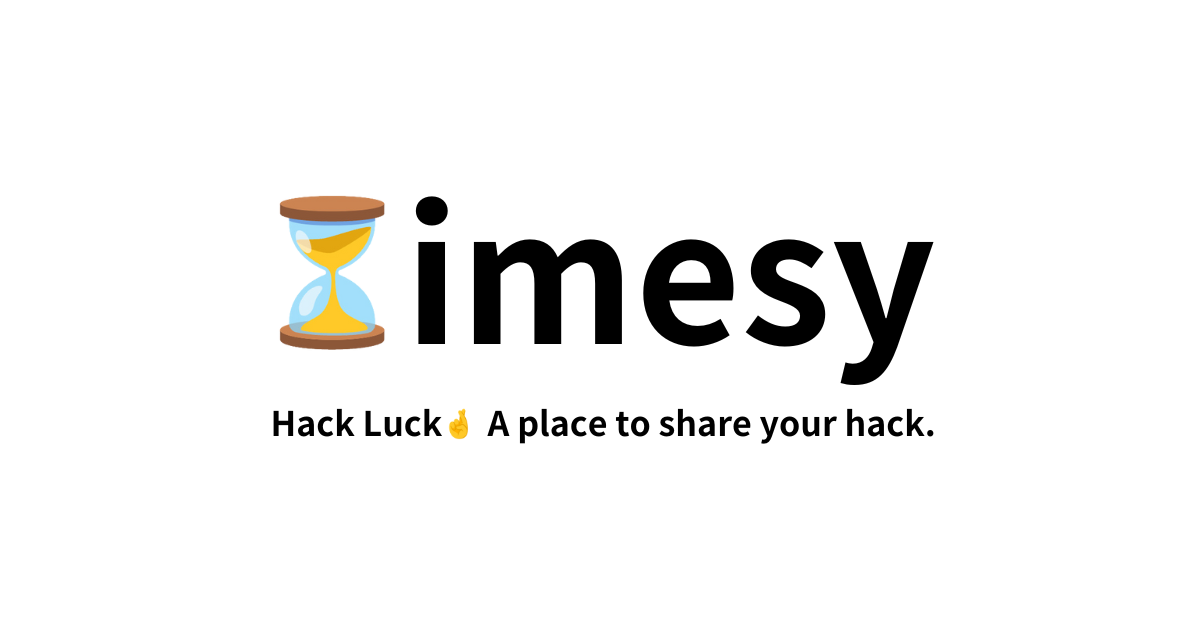
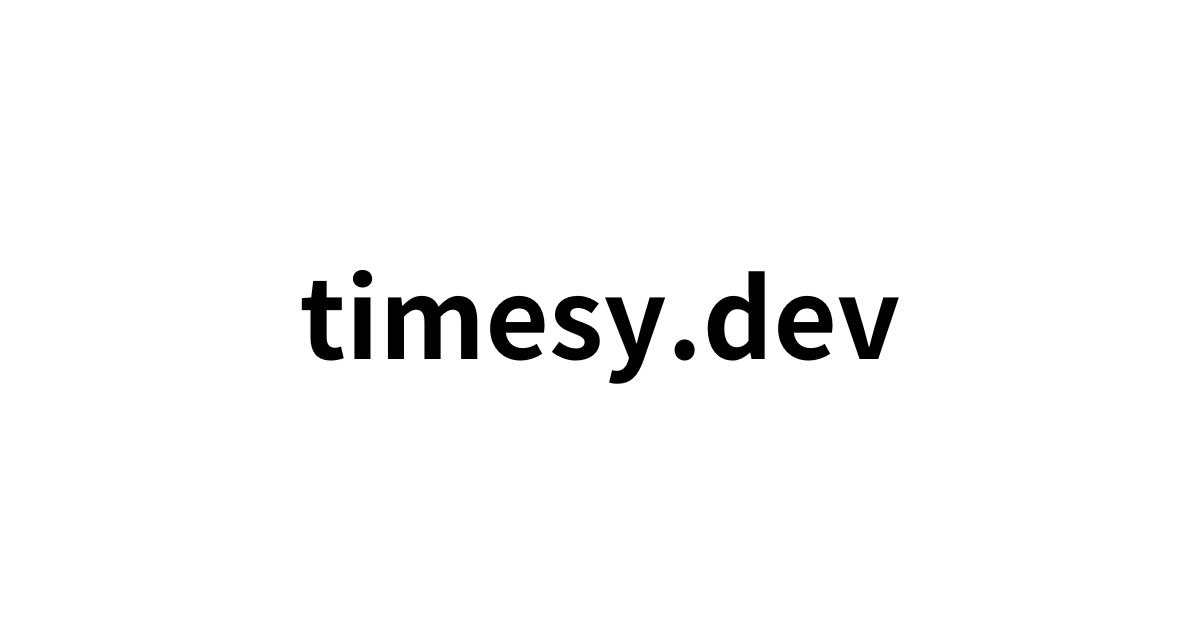
Tweak design

Changed region(s): [[0.2158, 0.3016, 0.8017, 0.6333], [0.2158, 0.6333, 0.7708, 0.6937]]

diff --git a/app/models/site.rb b/app/models/site.rb
@@ -8,7 +8,7 @@ class Site
   end
 
   def self.title
-    "Timesy"
+    "timesy.dev"
   end
 
   def self.description
@@ -20,6 +20,6 @@ class Site
   end
 
   def self.sender_email
-    ENV.fetch("SITE_SENDER_EMAIL", "Timesy <noreply@timesy.dev>")
+    ENV.fetch("SITE_SENDER_EMAIL", "timesy.dev <noreply@timesy.dev>")
   end
 end

diff --git a/config/initializers/passwordless.rb b/config/initializers/passwordless.rb
@@ -1,1 +1,1 @@
-Passwordless.default_from_address = ENV.fetch("SITE_SENDER_EMAIL", "Timesy <noreply@timesy.dev>")
+Passwordless.default_from_address = ENV.fetch("SITE_SENDER_EMAIL", "timesy.dev <noreply@timesy.dev>")

diff --git a/README.md b/README.md
@@ -1,6 +1,6 @@
-![Timesy](./public/ogp.png)
+![timesy.dev](./public/ogp.png)
 
-**Timesy** is a social technical note application for developers⏳
+**timesy.dev** is a social technical note application for developers⏳
 
 ## Requirement
 
@@ -39,4 +39,4 @@ This application is available as open source under the terms of the [MIT License
 
 ## Code of Conduct
 
-All people interacting with the Timesy project codebase, issue tracker, chat rooms, and mailing lists are expected to follow the [Code of Conduct](https://github.com/moekidev/timesy/blob/main/CODE_OF_CONDUCT.md).
+All people interacting with the timesy.dev project codebase, issue tracker, chat rooms, and mailing lists are expected to follow the [Code of Conduct](https://github.com/moekidev/timesy/blob/main/CODE_OF_CONDUCT.md).
